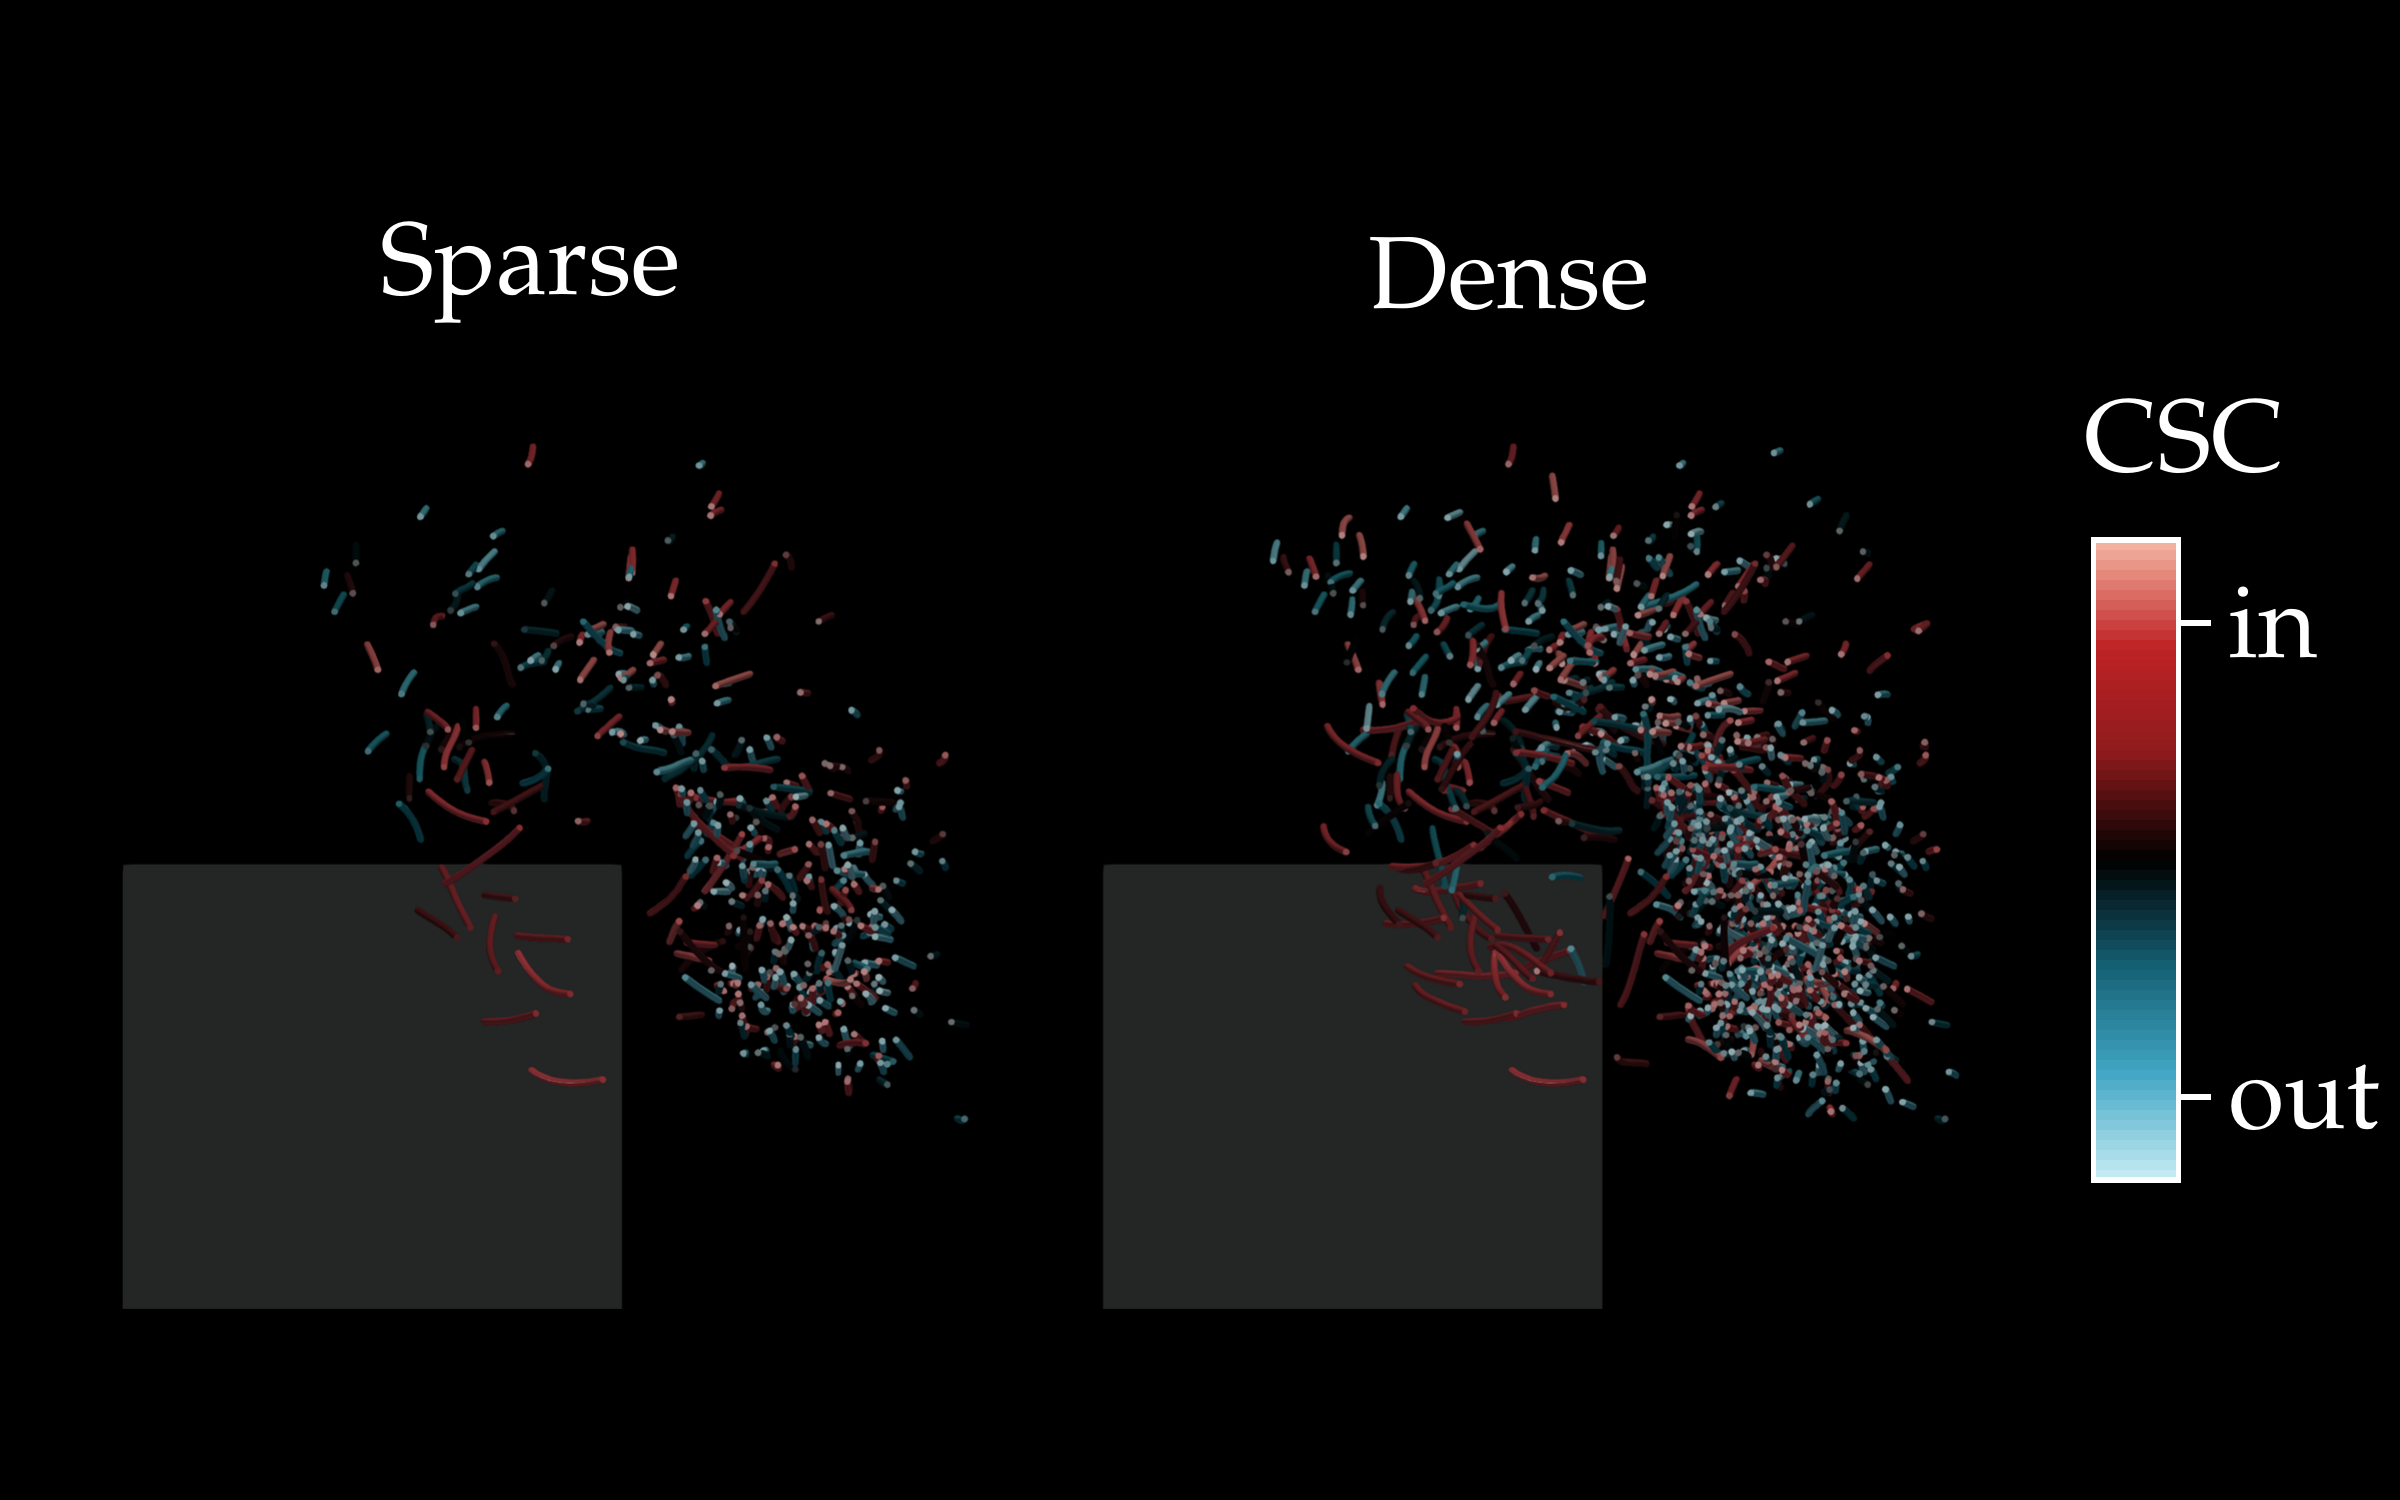
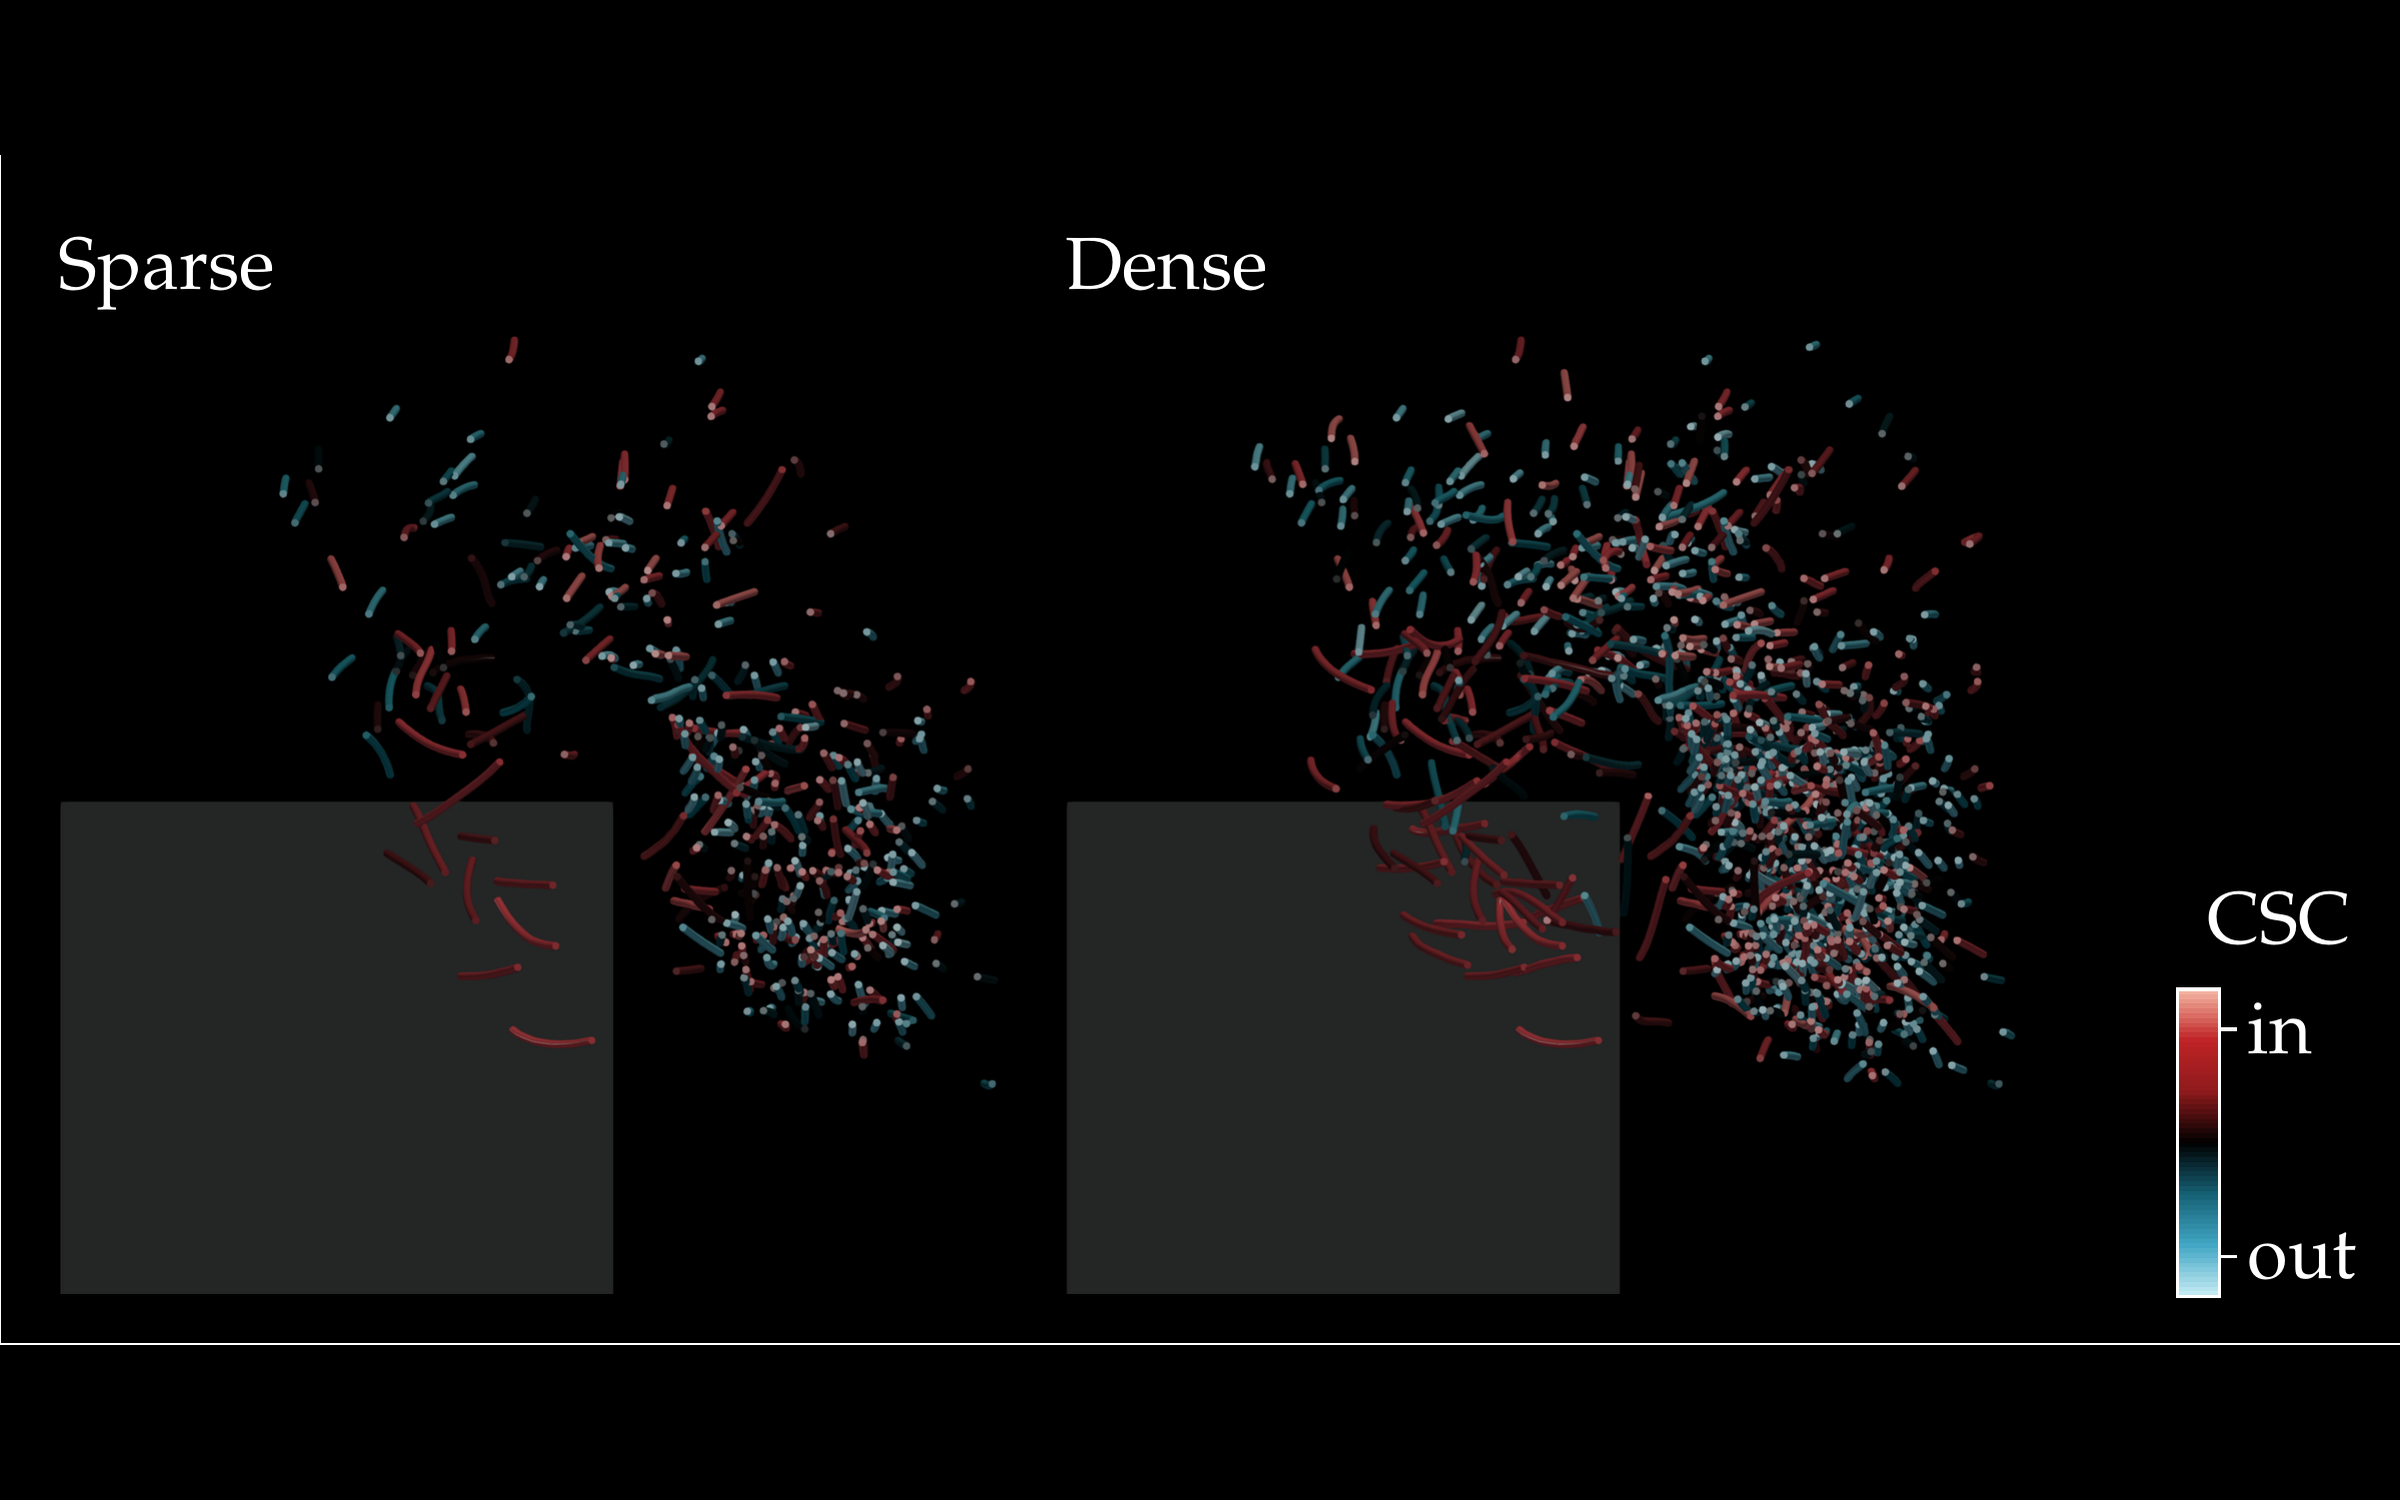
Use the tightened research figures
The figures follow the repositories' figure spec: cropped to their
content, 10.95 pt text, a short corner colour bar and brushed-metal
solids. Each sits centred on a black 16:10 frame so the cards stay even.

diff --git a/index.html b/index.html
@@ -80,7 +80,7 @@
 
           <article id="work-viv" class="research-story">
             <figure data-art-tone="copper">
-              <img src="/assets/work/renders/vortex-induced-vibration.webp?v=20261022" width="2400" height="1500" loading="lazy" alt="On black, a grey cylinder with teal and red vortex cores shed alternately behind it over a glowing plane of spanwise vorticity, with a colour bar" />
+              <img src="/assets/work/renders/vortex-induced-vibration.webp?v=20261022b" width="2400" height="1500" loading="lazy" alt="On black, a brushed-metal cylinder with teal and red vortex cores shed alternately behind it over a glowing plane of spanwise vorticity, with a colour bar" />
               <figcaption><strong>Figure 2.</strong> Vortex wake of an elastically mounted cylinder free to move across the flow. Vortex cores and the plane behind them are coloured by spanwise vorticity, teal clockwise and red anticlockwise. Coarse two-dimensional re-run with the mass, stiffness and damping of the study, shown across the span; not the published simulations.</figcaption>
             </figure>
             <div class="research-story-copy">
@@ -97,7 +97,7 @@
 
           <article id="work-truss" class="research-story">
             <figure data-art-tone="copper">
-              <img src="/assets/work/renders/truss-sizing.webp?v=20261022" width="2400" height="1500" loading="lazy" alt="On black, two bridge-like trusses of equal mass: the top one with equal member thickness and pale over-stressed chords, the bottom one with sized members in even teal and red, beside a stress colour bar" />
+              <img src="/assets/work/renders/truss-sizing.webp?v=20261022b" width="2400" height="1500" loading="lazy" alt="On black, two bridge-like trusses of equal mass: the top one with equal member thickness and pale over-stressed chords, the bottom one with sized members in even teal and red, with brushed-metal joints and supports, beside a stress colour bar" />
               <figcaption><strong>Figure 3.</strong> The 37-member benchmark truss at equal mass, with uniform member areas (top) and after linear sizing (bottom). Tube thickness follows member area; colour is axial stress relative to the admissible stress, teal in compression and red in tension, paling where it exceeds the limit.</figcaption>
             </figure>
             <div class="research-story-copy">
@@ -114,7 +114,7 @@
 
           <article id="work-csc" class="research-story">
             <figure data-art-tone="copper">
-              <img src="/assets/work/renders/coherent-structure-colouring.webp?v=20261022" width="2400" height="1500" loading="lazy" alt="On black, two views along the wake of an Ahmed body with sparse and dense particle tracks; red tracks curl around the trailing vortex beside the dark grey rear face, teal tracks lie outside it" />
+              <img src="/assets/work/renders/coherent-structure-colouring.webp?v=20261022b" width="2400" height="1500" loading="lazy" alt="On black, two views along the wake of an Ahmed body with sparse and dense particle tracks; red tracks curl around the trailing vortex beside the dark grey rear face, teal tracks lie outside it" />
               <figcaption><strong>Figure 4.</strong> Coherent-structure colouring of particle tracks measured behind the Ahmed body, seen along the stream, for sparse (left) and dense (right) seeding. Red tracks belong to the trailing vortex and teal tracks lie outside it; the grey panel is the rear face of the body.</figcaption>
             </figure>
             <div class="research-story-copy">
@@ -130,7 +130,7 @@
           </article>
           <article class="research-story" id="voronoi-coherence">
             <figure data-art-tone="copper">
-              <img src="/assets/work/renders/voronoi-coherence.webp?v=20261022" width="2400" height="1500" loading="lazy" alt="Voronoi cells of double-gyre tracers coloured by neighbour persistence, glowing in light and dark teal bands that follow the two gyres, with short amber trails of recent motion" />
+              <img src="/assets/work/renders/voronoi-coherence.webp?v=20261022b" width="2400" height="1500" loading="lazy" alt="Voronoi cells of double-gyre tracers coloured by neighbour persistence, glowing in light and dark teal bands that follow the two gyres, with short amber trails of recent motion" />
               <figcaption><strong>Figure 5.</strong> Voronoi cells of 784 tracers in the double-gyre flow, coloured by neighbour persistence (the sign of the colour is arbitrary). Amber trails show each tracer’s recent motion. Computed with the repository’s Python implementation.</figcaption>
             </figure>
             <div class="research-story-copy">
@@ -148,7 +148,7 @@
           <article class="research-story" id="regenerative-wakes">
             <span id="openfoam-actuator-surface" class="study-anchor" aria-hidden="true"></span>
             <figure data-art-tone="ochre">
-              <img src="/assets/work/renders/regenerative-wakes.webp?v=20261022" width="2400" height="1500" loading="lazy" alt="On black, two rotor wakes stacked, each crossed by four glowing velocity-deficit planes and amber streamlines: without wings the wake stays square and level; with four wing strips it lifts into a mushroom shape and fades" />
+              <img src="/assets/work/renders/regenerative-wakes.webp?v=20261022b" width="2400" height="1500" loading="lazy" alt="On black, two rotor wakes stacked, each crossed by four glowing velocity-deficit planes and amber streamlines: without wings the wake stays square and level; with four wing strips it lifts into a mushroom shape and fades" />
               <figcaption><strong>Figure 6.</strong> Velocity deficit behind an actuator-surface rotor without wings (top) and with four wing strips (bottom); the brighter the blue, the slower the wake, and amber lines are streamlines from the actuator ends. With the wings the wake rises and recovers faster. Steady simulations of the repository case.</figcaption>
             </figure>
             <div class="research-story-copy">
@@ -217,7 +217,7 @@
           </article>
           <article class="research-story" id="celestial-dynamics">
             <figure data-art-tone="blue">
-              <img src="/assets/work/renders/three-body.webp?v=20261022" width="2400" height="1500" loading="lazy" alt="On black, a teal effective-potential landscape with a dark well around the Earth holding an amber rosette orbit, a grey zero-velocity curve and five labelled grey spheres at the Lagrange points" />
+              <img src="/assets/work/renders/three-body.webp?v=20261022b" width="2400" height="1500" loading="lazy" alt="On black, a teal effective-potential landscape with a dark well around the Earth holding an amber rosette orbit, a grey zero-velocity curve and five labelled grey spheres at the Lagrange points" />
               <figcaption><strong>Figure 10.</strong> Effective potential of the Earth–Moon restricted three-body problem in the rotating frame, with one computed orbit (amber) held in the Earth’s well by the zero-velocity curve (grey line). Grey spheres mark the five Lagrange points; the height is compressed logarithmically for display.</figcaption>
             </figure>
             <div class="research-story-copy">
@@ -267,7 +267,7 @@
           </article>
           <article class="research-story" id="cavity-flow">
             <figure data-art-tone="blue">
-              <img src="/assets/work/renders/cavity-flow.webp?v=20261022" width="2400" height="1500" loading="lazy" alt="On black, a square cavity with a grey lid on top, filled with a flow-direction texture; a large teal clockwise vortex fills the centre, red layers line the walls and small eddies sit in the lower corners" />
+              <img src="/assets/work/renders/cavity-flow.webp?v=20261022b" width="2400" height="1500" loading="lazy" alt="On black, a square cavity with a grey lid on top, filled with a flow-direction texture; a large teal clockwise vortex fills the centre, red layers line the walls and small eddies sit in the lower corners" />
               <figcaption><strong>Figure 13.</strong> Steady lid-driven cavity flow at Re = 1000 from the repository's solver. Texture follows the flow direction; colour is vorticity, teal clockwise and red anticlockwise. Secondary eddies form in both lower corners.</figcaption>
             </figure>
             <div class="research-story-copy">
@@ -283,7 +283,7 @@
           </article>
           <article class="research-story" id="openfoam-postprocessing">
             <figure data-art-tone="blue">
-              <img src="/assets/work/renders/openfoam-postprocessing.webp?v=20261022" width="2400" height="1500" loading="lazy" alt="On black, one wake plane: on the left, spheres at OpenFOAM cell centres, denser and brighter in the wake; on the right, the same velocity deficit on a regular grid of square cells" />
+              <img src="/assets/work/renders/openfoam-postprocessing.webp?v=20261022b" width="2400" height="1500" loading="lazy" alt="On black, one wake plane: on the left, spheres at OpenFOAM cell centres, denser and brighter in the wake; on the right, the same velocity deficit on a regular grid of square cells" />
               <figcaption><strong>Figure 14.</strong> One cross-flow plane of a rotor wake from the bundled OpenFOAM snapshot: cell-centre samples, sized by mesh spacing (left), and the same velocity deficit resampled onto a regular grid (right). The brighter the blue, the slower the wake.</figcaption>
             </figure>
             <div class="research-story-copy">
